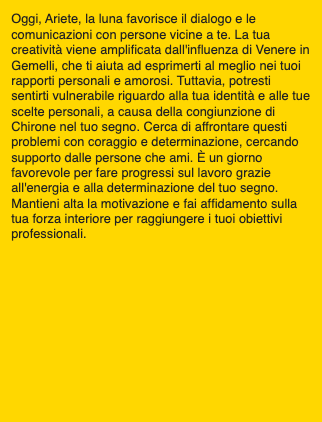
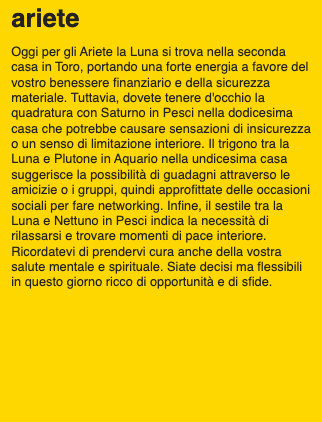
working with Card component

Changed region(s): [[0.0311, 0.0308, 0.9627, 0.6777]]

diff --git a/src/pages/cards/index.js b/src/pages/cards/index.js
@@ -1,41 +1,41 @@
-import MainLayout from '@/layouts/MainLayout'
-import React from 'react'
-import { useRef } from 'react'
-import { generateImage } from '@/libs/generateImage'
-import Card from '@/components/Card';
-const Image = () => {
-//   const imgRef = useRef();
-// console.log(imgRef.current)
-//   async function handleImage() {
-//     try {
-//       const dataUrl = await generateImage(imgRef);
+// import MainLayout from '@/layouts/MainLayout'
+// import React from 'react'
+// import { useRef } from 'react'
+// import { generateImage } from '@/libs/generateImage'
+// import Card from '@/components/Card';
+// const Image = () => {
+// //   const imgRef = useRef();
+// // console.log(imgRef.current)
+// //   async function handleImage() {
+// //     try {
+// //       const dataUrl = await generateImage(imgRef);
 
-//       const response = await fetch('/api/saveImage', {
-//         method: 'POST',
-//         headers: { 'Content-Type': 'application/json' },
-//         body: JSON.stringify({ image: dataUrl }),
-//       });
+// //       const response = await fetch('/api/saveImage', {
+// //         method: 'POST',
+// //         headers: { 'Content-Type': 'application/json' },
+// //         body: JSON.stringify({ image: dataUrl }),
+// //       });
 
-//       if (response.ok) {
-//         console.log('File saved successfully');
-//       } else {
-//         console.error('An error occurred while saving the file');
-//       }
-//     } catch (error) {
-//       console.error(error);
-//     }
-//   }
+// //       if (response.ok) {
+// //         console.log('File saved successfully');
+// //       } else {
+// //         console.error('An error occurred while saving the file');
+// //       }
+// //     } catch (error) {
+// //       console.error(error);
+// //     }
+// //   }
 
-  return (
-    <>
-      <MainLayout>
-      <Card/>
-      </MainLayout>
-    </>
-  );
-};
+//   return (
+//     <>
+//       <MainLayout>
+//       <Card/>
+//       </MainLayout>
+//     </>
+//   );
+// };
 
-export default Image;
+// export default Image;
 
 
 

diff --git a/src/pages/cards/[sign].js b/src/pages/cards/[sign].js
@@ -1,40 +1,40 @@
-import React from "react";
-import { useRouter } from "next/router";
-import MainLayout from "@/layouts/MainLayout";
-import Head from "next/head";
-import { getJson } from "@/libs/getJson";
-import { getTodayYesterdayTomorrow } from "@/libs/dates";
-import { zodiacSigns } from "../../../assets/zodiacSigns";
-import Card from "@/components/Card";
-const todayPage = ({params, data}) => {
-  return ( <>
+// import React from "react";
+// import { useRouter } from "next/router";
+// import MainLayout from "@/layouts/MainLayout";
+// import Head from "next/head";
+// import { getJson } from "@/libs/getJson";
+// import { getTodayYesterdayTomorrow } from "@/libs/dates";
+// import { zodiacSigns } from "../../../assets/zodiacSigns";
+// import Card from "@/components/Card";
+// const todayPage = ({params, data}) => {
+//   return ( <>
 
  
-<Card params={params} data={data}/>
-  </>
-  )
-}
+// <Card params={params} data={data}/>
+//   </>
+//   )
+// }
 
-export default todayPage
+// export default todayPage
 
-export async function getStaticPaths() {
-  const paths = zodiacSigns
-    .map((z) => z.name)
-    .map((sign) => ({ params: { sign } }));
-  return {
-    paths,
-    fallback: false,
-  };
-}
+// export async function getStaticPaths() {
+//   const paths = zodiacSigns
+//     .map((z) => z.name)
+//     .map((sign) => ({ params: { sign } }));
+//   return {
+//     paths,
+//     fallback: false,
+//   };
+// }
 
-export async function getStaticProps({ params }) {
-const {today} = getTodayYesterdayTomorrow()
-console.log('today', today)
-  const data = getJson(today).filter(s =>(s.sign === params.sign))
-  return {
-    props: { params, data}, 
-    revalidate: 60*60,
-  };
-}
+// export async function getStaticProps({ params }) {
+// const {today} = getTodayYesterdayTomorrow()
+// console.log('today', today)
+//   const data = getJson(today).filter(s =>(s.sign === params.sign))
+//   return {
+//     props: { params, data}, 
+//     revalidate: 60*60,
+//   };
+// }
 
 

diff --git a/src/pages/api/handleImage.js b/src/pages/api/handleImage.js
@@ -9,13 +9,14 @@ import { zodiacSigns } from '../../../assets/zodiacSigns';
 
 
 export default async function handler(req, res) {
-    const htmlString = ReactDOMServer.renderToString('<h1>Ciao Mondo!!!</h1>');
-const {today} = getTodayYesterdayTomorrow()
-const signs = await getJson(today)
-    
-    try {
-      for (let sign of signs) {
-       await generateImage(sign.horoscope, sign.sign).then(console.log('IMMAGINE GENERATA'))
+  const {today, yesterday} = getTodayYesterdayTomorrow()
+  const signs = await getJson(yesterday)
+  
+  try {
+    for (let sign of signs) {
+      console.log(sign ,'SEGNO')
+        const htmlString = ReactDOMServer.renderToString(<Card data={sign}/>);
+       await generateImage(htmlString, sign.sign).then(console.log('IMMAGINE GENERATA'))
 
       }
 

diff --git a/src/components/Card.js b/src/components/Card.js
@@ -2,9 +2,10 @@ import Head from "next/head";
 import React from "react";
 import { zodiacSigns } from "../../assets/zodiacSigns";
 
-const Card = ({params, data}) => {
-  const {sign, horoscope} = data[0]
-  console.log(sign)
+const Card = ({ data}) => {
+  console.log(data, 'DATA')
+  const {sign, horoscope} = data
+  console.log(data , 'DATA')
   return (
     <>
       <div className="card">
